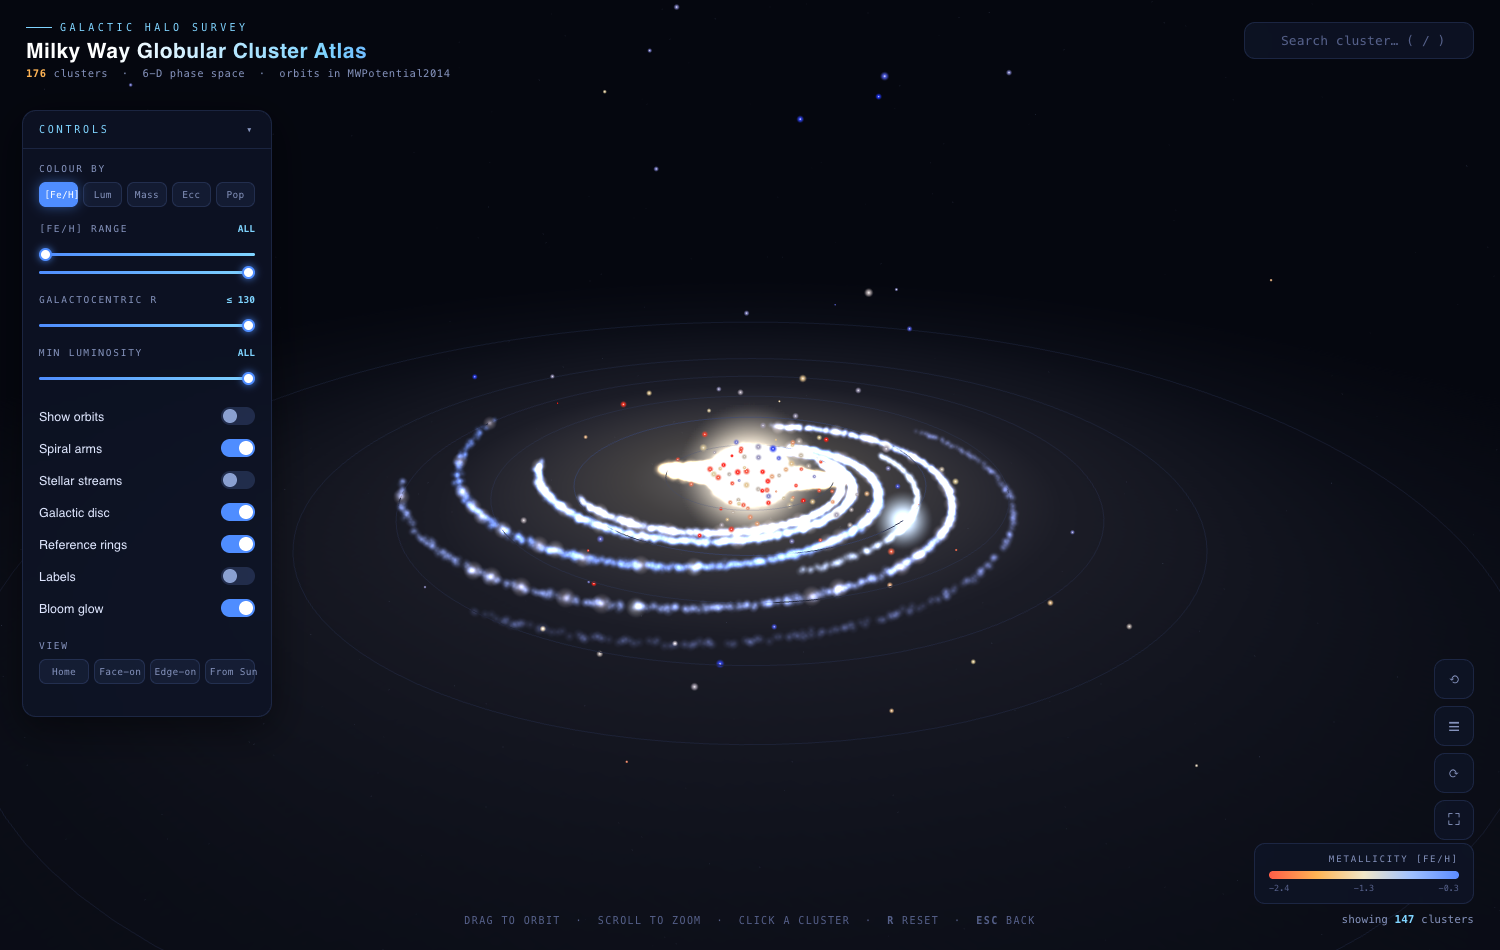
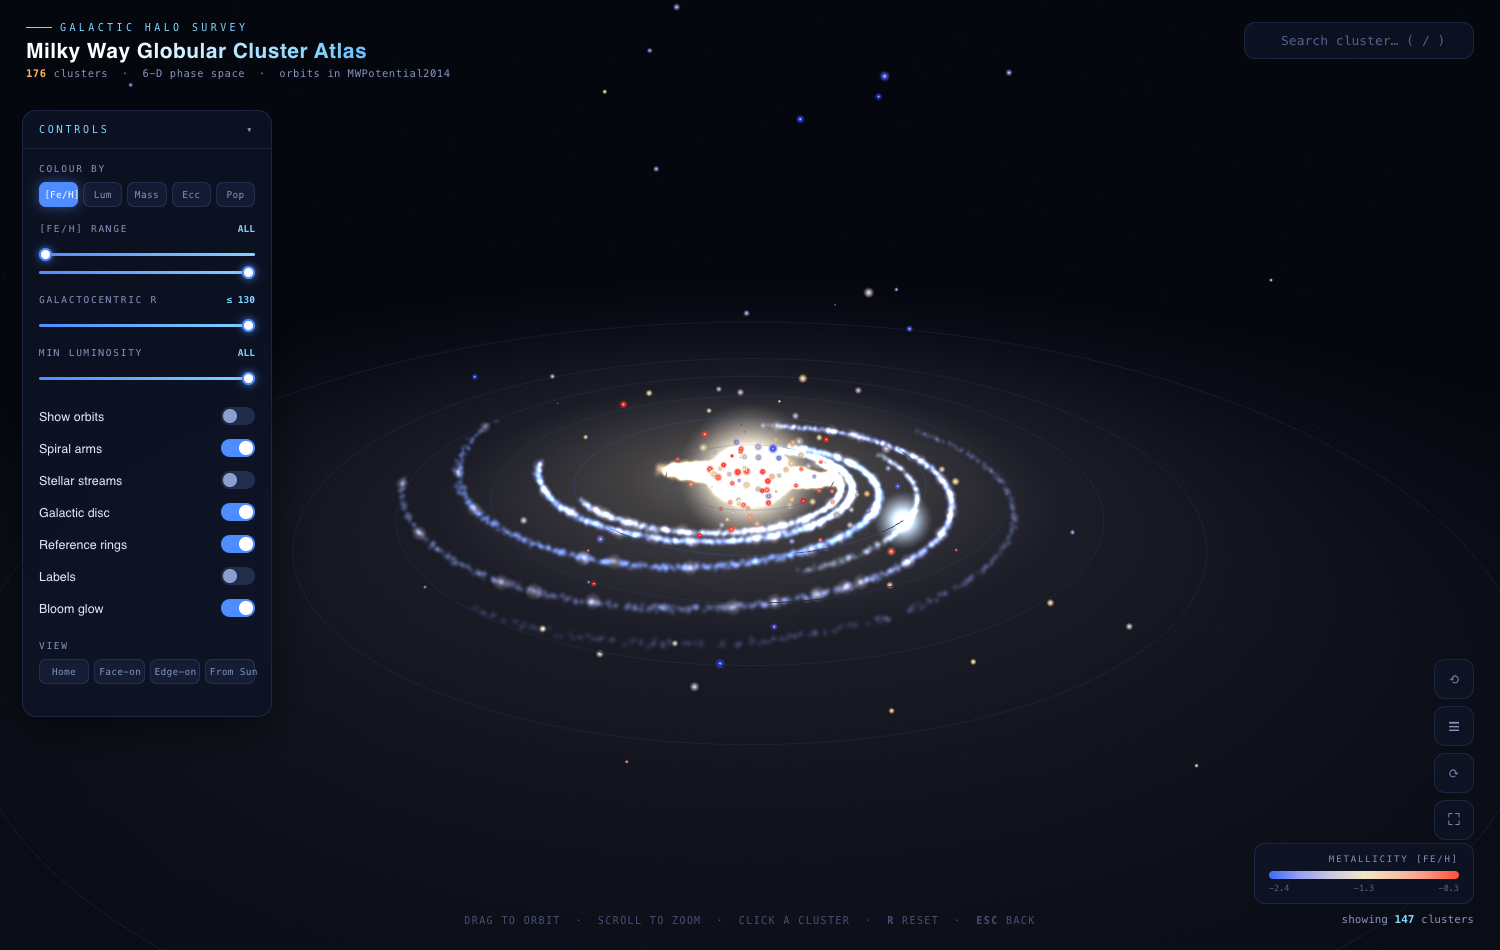
style(viz): more translucent bulge/spiral arms, slightly larger clusters
- spiral arm points: opacity 0.4→0.28, size 0.8→0.7; HII spots 0.6→0.5
- bar: opacity 0.5→0.38; bulge: opacity 0.42→0.3, size 1.1→0.95
- cluster points: base size 2.4→2.9, M_V slope 1.05→1.25 (~+20%)

diff --git a/viz/app.js b/viz/app.js
@@ -114,8 +114,8 @@ function buildArms() {
     const g = new THREE.BufferGeometry();
     g.setAttribute('position', new THREE.Float32BufferAttribute(pos, 3));
     g.setAttribute('color', new THREE.Float32BufferAttribute(cols, 3));
-    const m = new THREE.PointsMaterial({ size: 0.8, map: tex, vertexColors: true,
-      transparent: true, opacity: 0.4, depthWrite: false,
+    const m = new THREE.PointsMaterial({ size: 0.7, map: tex, vertexColors: true,
+      transparent: true, opacity: 0.28, depthWrite: false,
       blending: THREE.AdditiveBlending, sizeAttenuation: true });
     armsGroup.add(new THREE.Points(g, m));
   });
@@ -133,8 +133,8 @@ function buildArms() {
   const hg = new THREE.BufferGeometry();
   hg.setAttribute('position', new THREE.Float32BufferAttribute(hpos, 3));
   hg.setAttribute('color', new THREE.Float32BufferAttribute(hcol, 3));
-  armsGroup.add(new THREE.Points(hg, new THREE.PointsMaterial({ size: 1.6, map: tex,
-    vertexColors: true, transparent: true, opacity: 0.6, depthWrite: false,
+  armsGroup.add(new THREE.Points(hg, new THREE.PointsMaterial({ size: 1.4, map: tex,
+    vertexColors: true, transparent: true, opacity: 0.5, depthWrite: false,
     blending: THREE.AdditiveBlending })));
 }
 buildArms();
@@ -162,8 +162,8 @@ function buildBar() {
   const g = new THREE.BufferGeometry();
   g.setAttribute('position', new THREE.Float32BufferAttribute(pos, 3));
   g.setAttribute('color', new THREE.Float32BufferAttribute(cols, 3));
-  barGroup.add(new THREE.Points(g, new THREE.PointsMaterial({ size: 1.2, map: tex,
-    vertexColors: true, transparent: true, opacity: 0.5, depthWrite: false,
+  barGroup.add(new THREE.Points(g, new THREE.PointsMaterial({ size: 1.1, map: tex,
+    vertexColors: true, transparent: true, opacity: 0.38, depthWrite: false,
     blending: THREE.AdditiveBlending })));
   // 核球(bulge): 半径~2kpc 椭球暖光
   const bp = [], bc = [];
@@ -179,8 +179,8 @@ function buildBar() {
   const bg = new THREE.BufferGeometry();
   bg.setAttribute('position', new THREE.Float32BufferAttribute(bp, 3));
   bg.setAttribute('color', new THREE.Float32BufferAttribute(bc, 3));
-  barGroup.add(new THREE.Points(bg, new THREE.PointsMaterial({ size: 1.1, map: tex,
-    vertexColors: true, transparent: true, opacity: 0.42, depthWrite: false,
+  barGroup.add(new THREE.Points(bg, new THREE.PointsMaterial({ size: 0.95, map: tex,
+    vertexColors: true, transparent: true, opacity: 0.3, depthWrite: false,
     blending: THREE.AdditiveBlending })));
 }
 buildBar();
@@ -340,7 +340,7 @@ CL.forEach((c, i) => {
   const v = V(c.x || 0, c.y || 0, c.z || 0);
   pos[i*3] = v.x; pos[i*3+1] = v.y; pos[i*3+2] = v.z;
   const m = c.MV == null ? -6 : c.MV;
-  siz[i] = 2.4 + Math.max(0, (-m - 3)) * 1.05;   // brighter -> bigger (克制的尺寸)
+  siz[i] = 2.9 + Math.max(0, (-m - 3)) * 1.25;   // brighter -> bigger
   vis[i] = 1;
 });
 const geo = new THREE.BufferGeometry();
